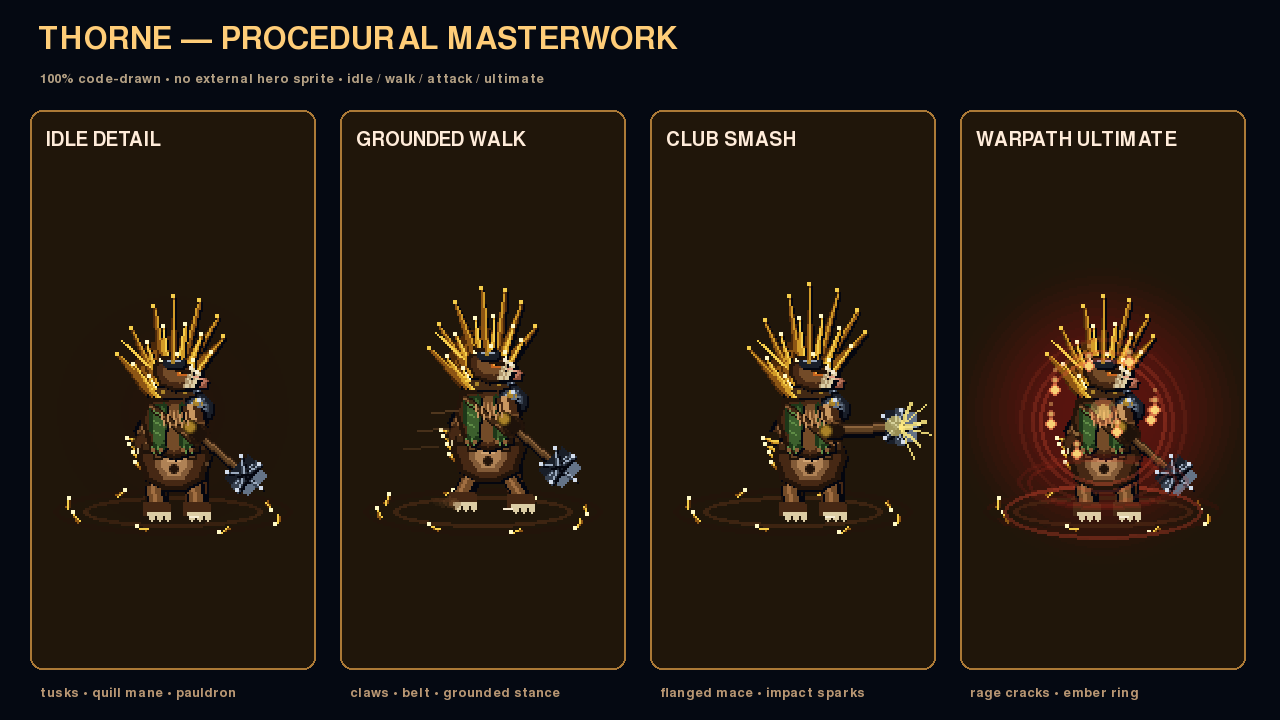
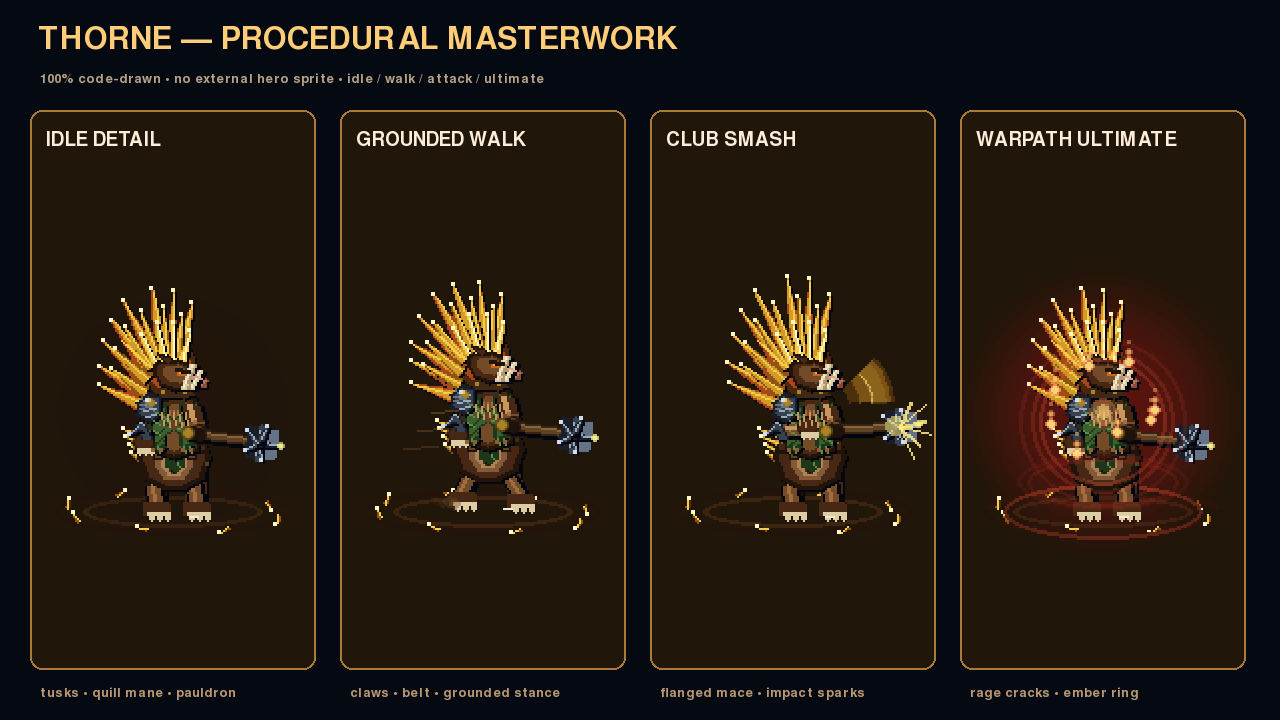
Thorne Masterwork: samkan rig ke referensi sprite Bristleback
- Surai jadi crest mohawk mengalir ke belakang: akar merah-oranye
  (quill_root baru) -> tengah oranye -> ujung kuning, lebih tebal/rapat.
- Kepala tanpa helm; taring putih besar melengkung; telinga kecil.
- Pauldron + vambrace baja berduri pindah ke lengan belakang (di depan
  torso), gelang & sash kain hijau, strap X hijau di dada, gesper baja.
- Gada dipegang horizontal saat idle dengan ujung duri menyala
  kuning-hijau; smash mendapat crescent kuning terisi (_draw_arc_pair
  dibangun ulang jadi ring polygon berlapis).
- Warpath: speed-line merah di belakang + crest merah menyala.
- docs preview/strip diregenerasi; semua uji regresi lulus.

diff --git a/heroes/_bundle.py b/heroes/_bundle.py
@@ -5990,6 +5990,7 @@ class _NS_thorne:
         "quill_light":    (245, 205,  75),
         "quill_shine":    (255, 235, 130),
         "quill_tip":      (255, 250, 200),
+        "quill_root":     (170,  70,  25),
 
         # Tusks
         "tusk_dark":      (175, 150, 110),
@@ -6709,6 +6710,10 @@ class _NS_thorne:
             _NS_thorne._draw_elite_quill(surface, bx, by, A + da, ln, 2,
                                          p["armor_darkest"], p["armor_dark"],
                                          p["armor_light"], p["armor_shine"])
+        # ujung duri depan menyala kuning-hijau (ref)
+        tipx, tipy = bx + math.cos(A) * 12, by + math.sin(A) * 12
+        _NS_thorne._aacircle(surface, (*p["quill_shine"], 200), (int(tipx), int(tipy)), 2)
+        _NS_thorne._aacircle(surface, (*p["goo_bright"], 160), (int(tipx), int(tipy)), 1)
         if attacking:
             _NS_thorne._aacircle(surface, (*p["quill_shine"], 150),
                                  (int(bx), int(by)), 5)
@@ -6737,11 +6742,11 @@ class _NS_thorne:
                                pt(-10, yy), pt(-7, yy + 2), 1)
         for xx in (-10, -6, 5, 9):
             _NS_thorne._aacircle(surface, p["leather_light"], pt(xx, 8), 1)
-        # goresan pauldron + kilau rivet
+        # goresan pauldron + kilau rivet (bahu belakang)
         for a in (-.7, -.2, .3):
-            _NS_thorne._aaline(surface, p["armor_mid"], pt(12, -14),
-                               pt(12 + math.cos(a) * 5, -14 + math.sin(a) * 5), 1)
-        _NS_thorne._aacircle(surface, p["armor_shine"], pt(13, -17), 1)
+            _NS_thorne._aaline(surface, p["armor_mid"], pt(-12, -14),
+                               pt(-12 - math.cos(a) * 5, -14 + math.sin(a) * 5), 1)
+        _NS_thorne._aacircle(surface, p["armor_shine"], pt(-13, -17), 1)
         # highlight cakar kaki depan
         _NS_thorne._aaline(surface, p["tusk_light"], pt(8, 41), pt(12, 41), 1)
 
@@ -6792,65 +6797,57 @@ class _NS_thorne:
         def qa(angle):
             return angle if f > 0 else math.pi - angle
 
-        # ── surai quill: massa lebar lalu kunci quill beranimasi sendiri ──
+        # ── surai quill: crest mohawk mengalir ke belakang (ref Bristleback) ──
         if warpath:
-            q_darkest, q_dark = p["rage_dark"], p["quill_dark"]
-            q_mid, q_light, q_tip = p["quill_mid"], p["rage_bright"], p["quill_tip"]
+            q_root, q_mid, q_light = p["rage_dark"], p["rage_mid"], p["rage_bright"]
+            q_tip = p["quill_tip"]
+            mass_dark, mass_mid = p["rage_dark"], p["rage_mid"]
         else:
-            q_darkest, q_dark = p["quill_darkest"], p["quill_dark"]
-            q_mid, q_light, q_tip = p["quill_mid"], p["quill_light"], p["quill_tip"]
+            q_root, q_mid, q_light = p["quill_root"], p["quill_mid"], p["quill_light"]
+            q_tip = p["quill_tip"]
+            mass_dark, mass_mid = p["quill_darkest"], p["quill_root"]
 
         wave = math.sin(phase * 1.25)
-        flare = 1.15 if attack and .15 < ap < .7 else 1.0
+        flare = 1.18 if attack and .15 < ap < .7 else 1.0
 
-        poly(q_darkest, [(-2, -14), (-12, -22), (-20, -34), (-14, -44), (-4, -50),
-                         (6, -48), (11, -40), (9, -28), (3, -18)])
-        poly(q_dark, [(-1, -16), (-9, -23), (-16, -33), (-11, -41), (-3, -46),
-                      (5, -44), (9, -37), (7, -28), (2, -19)], False)
+        poly(mass_dark, [(-2, -16), (-12, -24), (-19, -34), (-13, -44), (-3, -48),
+                         (6, -46), (10, -38), (8, -28), (3, -18)])
+        poly(mass_mid, [(-1, -18), (-9, -25), (-15, -33), (-10, -41), (-2, -44),
+                        (5, -42), (8, -36), (6, -28), (2, -20)], False)
 
-        back_quills = ((-11, -22, -2.35, 24, 3), (-8, -27, -2.10, 28, 3),
-                       (-4, -32, -1.85, 32, 3), (0, -35, -1.60, 34, 3),
-                       (4, -36, -1.35, 32, 3), (7, -35, -1.10, 28, 3),
-                       (9, -31, -0.85, 24, 3))
-        for i, (rx, ry, ang, ln, wd) in enumerate(back_quills):
+        crest = ((3, -40, -1.35, 26, 4), (-1, -42, -1.60, 30, 4),
+                 (-5, -41, -1.85, 32, 4), (-9, -38, -2.10, 32, 4),
+                 (-12, -33, -2.30, 30, 4), (-14, -27, -2.50, 28, 4),
+                 (-15, -21, -2.65, 25, 4), (-16, -15, -2.80, 22, 4))
+        for i, (rx, ry, ang, ln, wd) in enumerate(crest):
             w = wave * .04 * (1 + i % 3)
             _NS_thorne._draw_elite_quill(surface, *pt(rx, ry), qa(ang), ln * flare, wd,
-                                         q_darkest, q_dark, q_mid, q_light, wave=w)
-        mid_quills = ((-9, -20, -2.20, 18, 2), (-6, -25, -1.95, 22, 2),
-                      (-2, -29, -1.70, 25, 2), (2, -31, -1.45, 24, 2),
-                      (6, -30, -1.20, 21, 2), (8, -27, -0.95, 18, 2))
+                                         q_root, q_mid, q_light, q_tip, wave=w)
+        mid_quills = ((1, -38, -1.45, 22, 3), (-3, -39, -1.70, 25, 3),
+                      (-7, -37, -1.95, 26, 3), (-11, -33, -2.20, 24, 3),
+                      (-13, -27, -2.40, 22, 3), (-14, -21, -2.60, 20, 3))
         for i, (rx, ry, ang, ln, wd) in enumerate(mid_quills):
             w = wave * .03 * (1 + i % 2)
             _NS_thorne._draw_elite_quill(surface, *pt(rx, ry), qa(ang), ln * flare, wd,
-                                         q_dark, q_mid, q_light, q_tip, wave=w)
-        front_quills = ((-6, -18, -2.05, 12, 2), (-2, -22, -1.80, 15, 2),
-                        (2, -24, -1.55, 16, 2), (6, -23, -1.30, 14, 2))
+                                         p["quill_dark"], q_mid, q_light, q_tip, wave=w)
+        front_quills = ((4, -36, -1.30, 16, 2), (0, -38, -1.55, 18, 2),
+                        (-4, -37, -1.80, 19, 2), (-8, -34, -2.05, 17, 2))
         for i, (rx, ry, ang, ln, wd) in enumerate(front_quills):
             _NS_thorne._draw_elite_quill(surface, *pt(rx, ry), qa(ang), ln, wd,
                                          q_mid, q_light, q_tip, q_tip, wave=wave * .02)
         # bristle punggung mengarah ke belakang
         for i in range(4):
-            by_off = 6 + i * 4
-            _NS_thorne._draw_elite_quill(surface, *pt(-10 - i, by_off),
-                                         qa(math.pi + .3 + i * .1), 13 - i * 2, 2,
-                                         q_dark, q_mid, q_light, q_tip)
+            by_off = 2 + i * 4
+            _NS_thorne._draw_elite_quill(surface, *pt(-11 - i, by_off),
+                                         qa(math.pi + .3 + i * .1), 14 - i * 2, 2,
+                                         p["quill_dark"], q_mid, q_light, q_tip)
 
-        # ── lengan belakang (seberang gada) ──
+        # ── lengan belakang (seberang gada): bahu di belakang torso ──
         if attack:
             rear_hand = (-4 + int(ap * 6), -6 + int(ap * 4))
         else:
             rear_hand = (-15, 4)
         limb((-9, -12), (-15, -2), 8, p["fur_dark"], p["fur_light"])
-        limb((-15, -2), rear_hand, 7, p["fur_mid"], p["fur_high"])
-        rhx, rhy = pt(*rear_hand)
-        _NS_thorne._aacircle(surface, p["fur_darkest"], (rhx, rhy), 5)
-        _NS_thorne._aacircle(surface, p["fur_dark"], (rhx, rhy), 4)
-        for c in (-2, 1, 4):
-            _NS_thorne._poly(surface, p["tusk_mid"], [(rhx + c - 1, rhy + 3),
-                             (rhx + c + 1, rhy + 3), (rhx + c, rhy + 6)])
-        _NS_thorne._aaline(surface, p["leather_dark"], pt(-16, -4), pt(-14, 1), 4)
-        _NS_thorne._aaline(surface, p["leather_light"], pt(-16, -4), pt(-14, 1), 1)
-
         # ── kaki: stance terpisah yang menapak, bukan massa melayang ──
         leg_phase = stride if walk else 0.0
         rear_foot = (-9 - int(leg_phase * 5), 40 - int(abs(leg_phase) * 2))
@@ -6888,9 +6885,12 @@ class _NS_thorne:
                              (pt(dx, 7)[0], pt(dx, 7)[1], 5, 6), 1)
             _NS_thorne._rect(surface, p["leather_mid"],
                              (pt(dx + 1, 8)[0], pt(dx + 1, 8)[1], 3, 4), 1)
-        _NS_thorne._rect(surface, p["gold_dark"], (pt(-3, 4)[0], pt(-3, 4)[1], 6, 6), 1)
-        _NS_thorne._rect(surface, p["gold_mid"], (pt(-2, 5)[0], pt(-2, 5)[1], 4, 4), 1)
-        _NS_thorne._rect(surface, p["gold_light"], (pt(-1, 6)[0], pt(-1, 6)[1], 2, 2))
+        _NS_thorne._rect(surface, p["armor_darkest"], (pt(-3, 4)[0], pt(-3, 4)[1], 6, 6), 1)
+        _NS_thorne._rect(surface, p["armor_mid"], (pt(-2, 5)[0], pt(-2, 5)[1], 4, 4), 1)
+        _NS_thorne._rect(surface, p["armor_light"], (pt(-1, 6)[0], pt(-1, 6)[1], 2, 2))
+        # sash kain hijau menjuntai di depan (ref)
+        poly(p["cloth_dark"], [(-3, 8), (4, 8), (5, 16), (1, 19), (-4, 16)], False)
+        _NS_thorne._aaline(surface, p["cloth_light"], pt(-2, 9), pt(3, 16), 1)
 
         # ── torso: dada fur berlapis + vest perang sobek ──
         poly(p["fur_darkest"], [(-13, -18), (10, -20), (14, -8), (12, 8), (0, 12),
@@ -6909,28 +6909,40 @@ class _NS_thorne:
         for i in range(4):
             dx = -2 + i * 2
             _NS_thorne._aaline(surface, p["fur_light"], pt(dx, -12), pt(dx + 1, -5), 1)
-        _NS_thorne._aaline(surface, p["leather_darkest"], pt(-11, -14), pt(11, 4), 5)
-        _NS_thorne._aaline(surface, p["leather_dark"], pt(-11, -14), pt(11, 4), 3)
-        for i in range(5):
-            t = i / 4.0
-            _NS_thorne._aaline(surface, p["leather_light"],
-                               pt(-11 + t * 22 - 1, -14 + t * 18),
-                               pt(-11 + t * 22 + 1, -13 + t * 18), 1)
+        # strap kain hijau menyilang X di dada (ref)
+        _NS_thorne._aaline(surface, p["cloth_dark"], pt(-11, -14), pt(11, 4), 5)
+        _NS_thorne._aaline(surface, p["cloth_mid"], pt(-11, -14), pt(11, 4), 3)
+        _NS_thorne._aaline(surface, p["cloth_dark"], pt(11, -14), pt(-11, 4), 5)
+        _NS_thorne._aaline(surface, p["cloth_mid"], pt(11, -14), pt(-11, 4), 3)
+        _NS_thorne._aaline(surface, p["cloth_light"], pt(-11, -14), pt(11, 4), 1)
+        _NS_thorne._aacircle(surface, p["leather_mid"], pt(0, -5), 2)
 
-        # pauldron baja berlapis pada bahu gada
-        poly(p["armor_darkest"], [(6, -19), (13, -21), (19, -16), (18, -9),
-                                  (12, -6), (7, -10)])
-        poly(p["armor_dark"], [(8, -18), (13, -19), (17, -15), (16, -10),
-                               (11, -8), (8, -11)], False)
-        for i in range(3):
-            yy = -16 + i * 3
-            _NS_thorne._aaline(surface, p["armor_light"], pt(9, yy),
-                               pt(16 - i, yy + 1), 1)
-        _NS_thorne._aacircle(surface, p["gold_mid"], pt(12, -16), 2)
-        _NS_thorne._aacircle(surface, p["gold_light"], pt(12, -17), 1)
-        _NS_thorne._draw_elite_quill(surface, *pt(12, -21), qa(-1.9), 8, 2,
+        # forearm belakang di depan torso: vambrace baja + duri siku + kepalan
+        limb((-15, -2), rear_hand, 7, p["fur_mid"], p["fur_high"])
+        rhx, rhy = pt(*rear_hand)
+        _NS_thorne._aacircle(surface, p["fur_darkest"], (rhx, rhy), 5)
+        _NS_thorne._aacircle(surface, p["fur_dark"], (rhx, rhy), 4)
+        for c in (-2, 1, 4):
+            _NS_thorne._poly(surface, p["tusk_mid"], [(rhx + c - 1, rhy + 3),
+                             (rhx + c + 1, rhy + 3), (rhx + c, rhy + 6)])
+        _NS_thorne._aaline(surface, p["armor_darkest"], pt(-17, -5), pt(-14, 2), 6)
+        _NS_thorne._aaline(surface, p["armor_dark"], pt(-17, -5), pt(-14, 2), 4)
+        _NS_thorne._aaline(surface, p["armor_light"], pt(-17, -6), pt(-15, -5), 1)
+        _NS_thorne._draw_elite_quill(surface, *pt(-17, -3), qa(math.pi - .6), 6, 2,
                                      p["armor_darkest"], p["armor_dark"],
                                      p["armor_light"], p["armor_shine"])
+
+        # pauldron baja berlapis pada bahu belakang (di atas torso)
+        poly(p["armor_darkest"], [(-6, -19), (-13, -21), (-19, -16), (-18, -9),
+                                  (-12, -6), (-7, -10)])
+        poly(p["armor_dark"], [(-8, -18), (-13, -19), (-17, -15), (-16, -10),
+                               (-11, -8), (-8, -11)], False)
+        for i in range(3):
+            yy = -16 + i * 3
+            _NS_thorne._aaline(surface, p["armor_light"], pt(-9, yy),
+                               pt(-16 + i, yy + 1), 1)
+        _NS_thorne._aacircle(surface, p["gold_mid"], pt(-12, -16), 2)
+        _NS_thorne._aacircle(surface, p["gold_light"], pt(-12, -17), 1)
 
         # ── kerah kulit ber-stud menambatkan kepala ──
         poly(p["leather_dark"], [(-9, -22), (-4, -25), (6, -24), (10, -20),
@@ -6954,14 +6966,15 @@ class _NS_thorne:
         _NS_thorne._aacircle(surface, p["fur_darkest"], pt(14, hy0 + 3), 1)
         _NS_thorne._aacircle(surface, p["fur_darkest"], pt(14, hy0 + 1), 1)
         _NS_thorne._aacircle(surface, p["snout_light"], pt(12, hy0 + 1), 1)
-        for off, ln in ((6, 9), (9, 7)):
-            bx2, by2 = pt(off, hy0 + 6)
-            tx2, ty2 = pt(off + 3, hy0 + 6 - ln)
+        # taring putih besar melengkung ke atas (ref)
+        for off, ln, wdt in ((5, 12, 4), (9, 9, 3)):
+            bx2, by2 = pt(off, hy0 + 7)
+            tx2, ty2 = pt(off + 4, hy0 + 7 - ln)
             _NS_thorne._aaline(surface, p["shadow_deep"], (bx2 + f, by2 + 1),
-                               (tx2 + f, ty2 + 1), 4)
-            _NS_thorne._aaline(surface, p["tusk_dark"], (bx2, by2), (tx2, ty2), 3)
-            _NS_thorne._aaline(surface, p["tusk_mid"], (bx2, by2), (tx2, ty2), 2)
-            _NS_thorne._aacircle(surface, p["tusk_light"], (tx2, ty2), 1)
+                               (tx2 + f, ty2 + 1), wdt + 2)
+            _NS_thorne._aaline(surface, p["tusk_dark"], (bx2, by2), (tx2, ty2), wdt)
+            _NS_thorne._aaline(surface, p["tusk_mid"], (bx2, by2), (tx2, ty2), wdt - 1)
+            _NS_thorne._aaline(surface, p["tusk_light"], (bx2, by2 - 1), (tx2, ty2), 1)
         ex, ey = pt(4, hy0 - 1)
         if warpath:
             _NS_thorne._rect(surface, p["rage_bright"], (ex - 2, ey - 1, 5, 3))
@@ -6971,12 +6984,9 @@ class _NS_thorne:
             _NS_thorne._rect(surface, p["eye_iris_light"], (ex - 1, ey - 1, 2, 2))
         _NS_thorne._rect(surface, p["eye_pupil"], (ex, ey, 1, 1))
         _NS_thorne._aaline(surface, p["fur_darkest"], pt(1, hy0 - 3), pt(8, hy0 - 2), 2)
-        poly(p["fur_darkest"], [(-4, hy0 - 6), (-7, hy0 - 10), (-2, hy0 - 9)], False)
-        poly(p["armor_darkest"], [(-5, hy0 - 7), (5, hy0 - 8), (4, hy0 - 4),
-                                  (-4, hy0 - 4)])
-        _NS_thorne._aaline(surface, p["armor_light"], pt(-3, hy0 - 7),
-                           pt(3, hy0 - 7), 1)
-        _NS_thorne._aacircle(surface, p["gold_mid"], pt(0, hy0 - 6), 1)
+        # telinga kecil; puncak kepala menyambung ke crest quill (ref: tanpa helm)
+        poly(p["fur_darkest"], [(-4, hy0 - 6), (-8, hy0 - 11), (-2, hy0 - 9)], False)
+        poly(p["fur_dark"], [(-3, hy0 - 6), (-6, hy0 - 9), (-2, hy0 - 8)], False)
         if warpath:
             _NS_thorne._aaline(surface, p["rage_light"], pt(-6, hy0 + 2),
                                pt(-3, hy0 + 6), 1)
@@ -6996,18 +7006,26 @@ class _NS_thorne:
             else:              # recovery kembali ke sikap sedia
                 t = (ap - .62) / .38
                 hand = (17 - int(t * 4), 2)
-                angle = .92 - t * .2
+                angle = .92 - t * .77
         else:
+            # sikap sedia: gada dipegang horizontal ke depan (ref)
             hand = (13, 0)
-            angle = .72
+            angle = .15
         elbow = ((hand[0] + 9) // 2, (hand[1] - 12) // 2)
         limb((9, -14), elbow, 9, p["fur_dark"], p["fur_high"])
         limb(elbow, hand, 8, p["fur_mid"], p["fur_light"])
         hx, hy = pt(*hand)
         _NS_thorne._aacircle(surface, p["fur_darkest"], (hx, hy), 5)
         _NS_thorne._aacircle(surface, p["fur_mid"], (hx - 1, hy - 1), 3)
+        # gelang pergelaman kain hijau (ref)
+        _NS_thorne._aaline(surface, p["cloth_mid"], (hx - 3, hy - 1), (hx + 3, hy - 1), 3)
+        _NS_thorne._aaline(surface, p["cloth_light"], (hx - 3, hy - 2), (hx + 3, hy - 2), 1)
         _NS_thorne._draw_elite_club(surface, cx + lean, cy + root_y, f,
                                     hand, angle, phase, attack)
+        # crescent slash kuning selama smash (ref: ATTACK CLUB)
+        if attack and .26 < ap < .78:
+            t = max(0.0, min(1.0, (ap - .26) / .5))
+            _NS_thorne._draw_club_swing_trail(surface, *pt(9, -14), f, angle, t * .8)
 
         # ── secondary motion / contact feedback ──
         if walk:
@@ -7056,6 +7074,12 @@ class _NS_thorne:
                 _NS_thorne._aacircle(surface, (*p["rage_bright"], 140),
                                      (cx + int(math.cos(a2) * r),
                                       cy + int(math.sin(a2) * r * .45)), 1)
+            # speed-line merah di belakang (ref: WARPATH)
+            for i in range(3):
+                sy = cy - 12 + i * 9 + root_y
+                _NS_thorne._aaline(surface, (*p["rage_mid"], 150 - i * 35),
+                                   (cx - f * (34 + i * 9), sy),
+                                   (cx - f * (14 + i * 5), sy), 2)
 
         if detail:
             _NS_thorne._draw_thorne_masterwork_details(surface, pt, f)
@@ -7580,26 +7604,27 @@ class _NS_thorne:
 
     def _draw_arc_pair(surface, cx, cy, inner_r, outer_r, a_start, a_end,
                        facing, fade):
-        """Draw crescent arc for swing trail."""
+        """Crescent terisi untuk trail ayunan gada (ref: ATTACK CLUB)."""
+        p = _NS_thorne.PALETTE
         segments = 12
-        for i in range(segments):
-            t1 = i / segments
-            t2 = (i + 1) / segments
-            angle1 = a_start + (a_end - a_start) * t1
-            angle2 = a_start + (a_end - a_start) * t2
 
-            x1_o = cx + math.cos(angle1) * outer_r * facing
-            y1_o = cy + math.sin(angle1) * outer_r
-            x2_o = cx + math.cos(angle2) * outer_r * facing
-            y2_o = cy + math.sin(angle2) * outer_r
+        def ring(r0, r1, color):
+            pts = []
+            for i in range(segments + 1):
+                ang = a_start + (a_end - a_start) * i / segments
+                pts.append((cx + math.cos(ang) * r1 * facing,
+                            cy + math.sin(ang) * r1))
+            for i in range(segments, -1, -1):
+                ang = a_start + (a_end - a_start) * i / segments
+                pts.append((cx + math.cos(ang) * r0 * facing,
+                            cy + math.sin(ang) * r0))
+            _NS_thorne._poly(surface, color, pts)
 
-            # Outer arc
-            _NS_thorne._aaline(surface, (*_NS_thorne.PALETTE["quill_dark"], fade),
-                    (x1_o, y1_o), (x2_o, y2_o), 3)
-            _NS_thorne._aaline(surface, (*_NS_thorne.PALETTE["quill_mid"], fade),
-                    (x1_o, y1_o), (x2_o, y2_o), 2)
-            _NS_thorne._aaline(surface, (*_NS_thorne.PALETTE["quill_light"], fade),
-                    (x1_o, y1_o), (x2_o, y2_o), 1)
+        ring(inner_r, outer_r, (*p["quill_dark"], fade))
+        ring(inner_r + (outer_r - inner_r) * .25, outer_r - 2,
+             (*p["quill_mid"], fade))
+        ring(inner_r + (outer_r - inner_r) * .5, outer_r - 4,
+             (*p["quill_light"], max(20, fade - 60)))
 
         # Inner bright core
         for i in range(segments):
@@ -7613,7 +7638,7 @@ class _NS_thorne:
             y1 = cy + math.sin(angle1) * r_core
             x2 = cx + math.cos(angle2) * r_core * facing
             y2 = cy + math.sin(angle2) * r_core
-            _NS_thorne._aaline(surface, (*_NS_thorne.PALETTE["quill_shine"], fade),
+            _NS_thorne._aaline(surface, (*p["quill_shine"], fade),
                     (x1, y1), (x2, y2), 1)
 
 
